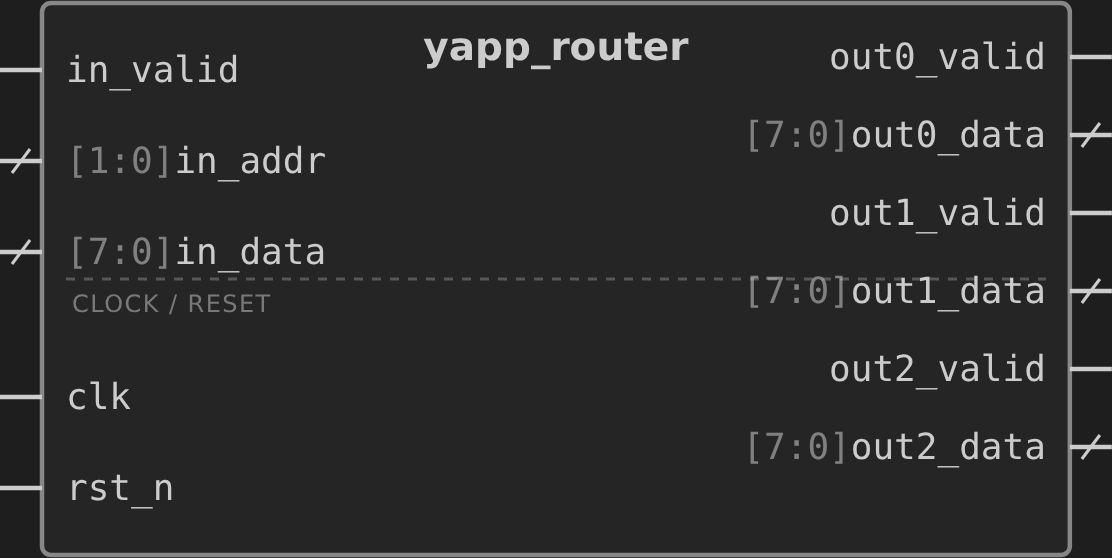
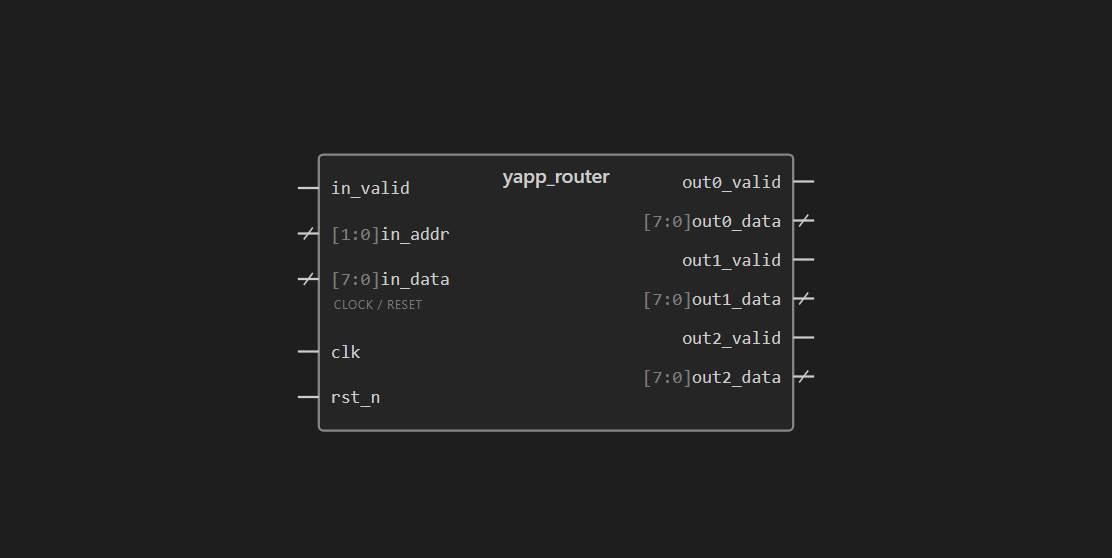
docs: realign both tutorials with the merged inspector
Follow-up to #33, which removed the diagram inspector aside and moved everything
into the sidebar Properties view. Both tutorials described the old layout, and
the RTL captures still showed a rendering that no longer happens.

Walkthrough (yapp-router-walkthrough.html):
  - "right-click and choose Create Agent from Selection" -- that command has ZERO
    menu entries and never had any; agents are created from the "Agent from
    selection (N)" BUTTON. Now says so, and points out that the count in the label
    is the check that all nine data pins are selected and clk/rst_n are not.
  - "right-click the env -> Open Verification View" -- the env is not a node in
    Design Hierarchy; the command lives on a hierarchy INSTANCE (and there is a
    Properties button too). Both paths named.

Captures 5-rtl-symbol.png and 6-rtl-symbol-selected.png re-rendered from the
current bundle: they still showed the dashed CLOCK / RESET divider that #33
deleted -- the one that struck through `[7:0]out1_data`. Same 1112x558 as before,
so the page layout is unchanged; the symbol sits slightly smaller in the frame
because the view auto-fit caps at 1.5x and Edge refuses a headless window short
enough to reproduce the original framing.

RO tutorial (tutorial-yapp-buffer.md):
  - "inspectorul din dreapta" -- that inspector is gone. Now names the Properties
    panel, with a note up front explaining the merge for anyone with the old
    layout in mind.
[…]

diff --git a/docs/yapp-router-walkthrough.html b/docs/yapp-router-walkthrough.html
@@ -335,7 +335,7 @@
       <div class="sub">select pins → Create Agent from Selection</div>
     </div>
     <div class="body">
-      <p>Rubber-band or <kbd>Ctrl</kbd>-click to select the data ports — the three inputs (<code>in_valid</code>, <code>in_addr</code>, <code>in_data</code>) and all six outputs — then right-click and choose <span class="menu">Create Agent from Selection</span>. Name it <b>pkt</b>.</p>
+      <p>Rubber-band or <kbd>Ctrl</kbd>-click to select the data ports — the three inputs (<code>in_valid</code>, <code>in_addr</code>, <code>in_data</code>) and all six outputs — then, in the <b>Properties</b> panel, press <span class="menu">Agent from selection (9)</span>. Name it <b>pkt</b>. The count in the button label is your check that all nine pins are selected and <code>clk</code>/<code>rst_n</code> are not.</p>
       <div class="ui">
         <div class="cap"><span class="dot"></span>Schematic — selection<span class="live">live capture</span></div>
         <img class="shotimg" alt="The real QuickUVM Architect symbol view with the nine data ports selected and highlighted blue — in_valid, in_addr, in_data and the six out0/out1/out2 _valid/_data pins — while clk and rst_n stay unselected." src="tutorial-shots/6-rtl-symbol-selected.png">
@@ -443,7 +443,7 @@
         <span><span class="badge b-old">M</span> modified since generate</span>
       </div>
       <p>The amber <b>U</b> badges mean “declared, but no code behind it yet” — exactly the state before your first generate. After Step 7 they clear; edit the config afterward and they turn to a blue <b>M</b> (stale) until you regenerate. The badges are your at-a-glance map of what's real on disk.</p>
-      <p>The same testbench, drawn as a schematic — right-click the env → <span class="menu">Open Verification View</span>. At the top level it is the DUT wired to the Env through the <code>pkt_if</code> interface:</p>
+      <p>The same testbench, drawn as a schematic — right-click <code>yapp_router</code> in <b>Design Hierarchy</b> → <span class="menu">Open Verification View</span> (or the button of the same name in <b>Properties</b>). At the top level it is the DUT wired to the Env through the <code>pkt_if</code> interface:</p>
       <div class="ui">
         <div class="cap"><span class="dot"></span>Verification View — testbench top<span class="live">live capture</span></div>
         <img class="shotimg" alt="The real QuickUVM Architect verification schematic at the testbench top: the yapp_router DUT connected through the pkt_if interface to the Env, which lists its pkt agent and its sbd scoreboard and pkt coverage under analysis." src="tutorial-shots/2-schematic-top.png">

diff --git a/docs/tutorial-yapp-buffer.md b/docs/tutorial-yapp-buffer.md
@@ -44,8 +44,14 @@ compilează extensia (`npm: build`) și se deschide o fereastră nouă cu folder
 `examples-yapp/` ca workspace, cu `quickuvm.top = yapp_buffer` presetat.
 
 În fereastra nouă, deschide bara laterală **QuickUVM Architect** (iconița din
-activity bar). Vezi două secțiuni: **Design Hierarchy** și **Verification
-Hierarchy**.
+activity bar). Vezi trei secțiuni: **Design Hierarchy**, **Verification
+Hierarchy** și **Properties**.
+
+> **Properties e SINGURUL inspector** (iul. 2026). Până atunci, diagrama avea și
+> ea un inspector propriu, într-o coloană în dreapta pânzei; acela a fost SCOS,
+> iar tot ce edita el a fost mutat în Properties — deci diagrama ocupă acum toată
+> lățimea editorului. Dacă un pas de mai jos spune doar „inspector", e vorba de
+> panoul **Properties** din bara laterală.
 
 ---
 
@@ -54,8 +60,8 @@ Hierarchy**.
 1. În **Design Hierarchy** apare rădăcina **„top module"** și, sub ea,
    `yapp_buffer`. Clic pe `yapp_buffer` → se deschide **schema/simbolul** lui
    (o cutie cu toți pinii pe laturi).
-2. În inspectorul din dreapta, la secțiunea de configurare, apasă
-   **„Set this module as DUT"**. Extensia:
+2. În panoul **Properties** din bara laterală, la secțiunea de configurare, apasă
+   **„Set as DUT"**. Extensia:
    - detectează euristic ceasul (`clk`) și reset-ul (`rst_n`, activ-jos — sufixul
      `_n`), pe care le confirmi;
    - creează un fișier `yapp_buffer.quickuvm.yaml` lângă design.
@@ -157,7 +163,10 @@ integral grafic"*
 
 ## 8. Generează testbench-ul
 
-Apasă **„Generate testbench"** (header sau inspector). Extensia rulează
+Apasă **„Generate testbench"** — butonul ▷ din bara de titlu a panoului
+**Properties**, butonul din corpul panoului, sau comanda din paletă. (NU din
+antetul diagramei: acolo e doar *cipul de stare* al ultimului generate.)
+Extensia rulează
 `quick-uvm generate` (cu fallback `python -c` dacă `quick-uvm` nu e pe PATH) și
 scrie testbench-ul în `quickuvm.outputDir` (implicit `tb/`).
 
